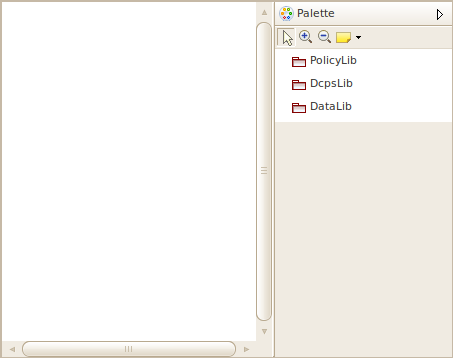
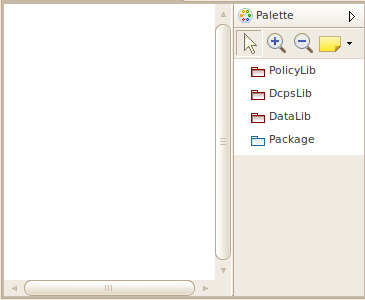
Mon Mar 28 16:54:10 UTC 2011  Byron Harris  <harrisb@ociweb.com>
git-svn-id: svn://svn.dre.vanderbilt.edu/DOC/DDS@4441 1d620576-631a-0410-9fb9-985d35bca4c5

Changed region(s): [[0.0, 0.0, 1.0, 1.0]]

diff --git a/trunk/tools/modeling/plugins/org.opendds.modeling.help/html/modeling/tasks/opendds_models/model_population.html b/trunk/tools/modeling/plugins/org.opendds.modeling.help/html/modeling/tasks/opendds_models/model_population.html
@@ -16,7 +16,7 @@
 
   <p>After the selection of a new OpenDDS Diagram you will then be
   presented with an editor that consists of a canvas and a palette
-  of "libraries" that can dragged onto the canvas. An example of
+  of "libraries" and a Package that can dragged onto the canvas. An example of
   this editor is shown in the following figure.</p><img alt=
   "Creating new OpenDDS diagram" src=
   "../../images/new_diagram_editor.png">
@@ -33,10 +33,14 @@
   "../diagrams/moving_between_diagrams.html">Moving between
   Diagrams</a> for information on working with multiple diagram
   editors.</p>
-  
+
+  <p>The libraries can optionally be organized by Packages. See
+  <a href="using_packages.html">Using Packages</a> for more information.
+  </p>
+   
    <div class="caution">
     <p>Although the <a href="../diagrams/modeling_perspective.html">OpenDDS Modeling perspective</a>
-    includes a Properties view exposing the underlying model, effort has been
+    includes a Properties view exposing the underlying model in the &quot;Core&quot; tab, effort has been
     made to minimize the need go between the diagram and Properties view. Care
     should be taken when making modifications in the Properties view
     since it may be possible to violate certain modeling assumptions that the

diff --git a/trunk/tools/modeling/plugins/org.opendds.modeling.help/html/modeling/tasks/data_lib/types/struct.html b/trunk/tools/modeling/plugins/org.opendds.modeling.help/html/modeling/tasks/data_lib/types/struct.html
@@ -17,14 +17,20 @@
   <p>A Struct is created by selecting a Struct from the palette and
   adding to the diagram.</p>
 
-  <p>After giving your Struct a name you will then want to give it
-  Fields as discussed above.</p>
+  <p>After giving your Struct a name you will then want to add
+  Fields to it as discussed in <a href="types_with_fields.html">Types with Fields</a>.</p>
 
   <p>After you define the Fields for the Struct you may want to
   re-order them. You can do so by dragging a field and dropping it
   into the new position.</p>
 
   <h2>Keys</h2>
+  <p>As described in the OpenDDS Developer's Guide available at the <a href=
+  "http://download.ociweb.com/OpenDDS/">OpenDDS download
+  page</a>, keys are fields used to identify different instances within a
+  topic. These key fields are identified by elements in the Struct's Keys
+  compartment whose names are that of the fields that act as keys.</p>
+  
   <p>Keys for the Struct are created similar to how Fields are
   created. Select the Key tool from the palette and add it to the
   Struct. Then in the Struct figure type the name of the Field that

diff --git a/trunk/tools/modeling/plugins/org.opendds.modeling.help/html/modeling/tasks/dcps_lib/datareaderwriter_topic_connection.html b/trunk/tools/modeling/plugins/org.opendds.modeling.help/html/modeling/tasks/dcps_lib/datareaderwriter_topic_connection.html
@@ -1,0 +1,29 @@
+<!DOCTYPE html PUBLIC "-//W3C//DTD HTML 4.01 Transitional//EN"
+"http://www.w3.org/TR/html4/loose.dtd">
+
+<html>
+<head>
+  <meta http-equiv="Content-Type" content=
+  "text/html; charset=us-ascii">
+
+  <title>Connecting DataReader/DataWriter to Topics</title>
+  <link rel="stylesheet" type="text/css" href=
+  "../../../styles.css">
+</head>
+
+<body>
+  <h2>Connecting DataReader/DataWriter to Topics</h2>
+
+  <p>Currently connector tools on the palette must be used to
+  connect a DataReader or DataWriter to a Topic. The steps to make
+  a connection are
+  <ol>
+    <li>Select the appropriate connector from the palette.</li>
+    <li>Click on the DataReader/DataWriter.</li>
+    <li>For a DataWriter click on its associated Topic, MultiTopic, or ContentFilteredTopic figure.
+    For a DataReader click on its associated Topic figure.</li>
+  </ol>
+  </p><img alt="DataWriter example" src=
+  "../../images/datareaderwriter_topic_connection_palette.png" align="right">
+</body>
+</html>

diff --git a/trunk/tools/modeling/plugins/org.opendds.modeling.help/html/modeling/tasks/opendds_models/model_creation.html b/trunk/tools/modeling/plugins/org.opendds.modeling.help/html/modeling/tasks/opendds_models/model_creation.html
@@ -14,7 +14,19 @@
 <body>
   <h2>Creating a Model</h2>
 
-  <p>To create an OpenDDS model, from the <a href=
+  <p>To create an OpenDDS model, an Eclipse project must be
+  identified to contain the model. An existing project of any type can be used, or a project can be created from menu <a href=
+  'javascript:executeCommand("org.eclipse.ui.newWizard")'><b>Eclipse
+  File -&gt; New</b></a> -&gt; Project... . A general project type can used
+  as shown below.
+  </p>
+  <img alt="Creating new Eclipse project" src=
+  "../../images/new_project_selection.png">
+  
+  <p>Once a project has been selected a new OpenDDS model can be
+  
+  
+  created from the <a href=
   'javascript:executeCommand("org.eclipse.ui.newWizard")'><b>Eclipse
   File -&gt; New</b></a> -&gt; Other... (Ctrl+N) menu item select
   OpenDDS Diagram under the OpenDDS Models category as shown in the

diff --git a/trunk/tools/modeling/plugins/org.opendds.modeling.help/html/modeling/concepts/modeling.html b/trunk/tools/modeling/plugins/org.opendds.modeling.help/html/modeling/concepts/modeling.html
@@ -8,7 +8,12 @@
 
 <h1>OpenDDS Modeling SDK</h1>
 
-<img alt="OpenDDS modeling editors example" src="../images/opendds_modeling_editors_examples.png" width=500>
+<div align="center">
+  <a href="../images/opendds_modeling_editors_examples.png">
+  <img alt="OpenDDS modeling editors example" src="../images/opendds_modeling_editors_examples.png" width=500>
+  <p>[Click to enlarge]</p>
+  </a>
+</div>
 
 <p>Graphical modeling Eclipse plug-ins are provided for constructing the OpenDDS models that will be
 transformed into C++ code.</p>

diff --git a/trunk/tools/modeling/plugins/org.opendds.modeling.help/html/modeling/tasks/data_lib/types/types_with_fields.html b/trunk/tools/modeling/plugins/org.opendds.modeling.help/html/modeling/tasks/data_lib/types/types_with_fields.html
@@ -18,6 +18,13 @@
   Long". (Basic types do not need to be created first.) The type
   can be from any of the active DataLibs in addition to the types
   in the currently opened diagram.</p>
+
+  <div class="caution">
+  <p>If a Field has not been defined properly (for example, a reference
+  is made to a type that does not exist) you will see
+  &lt;...&gt; in its place. Either edit the field using the
+  "name: type" form or delete the field from the Struct.</p>
+  </div>
   
 </body>
 </html>

diff --git a/trunk/tools/modeling/plugins/org.opendds.modeling.help/html/modeling/tasks/dcps_lib/topics_usage.html b/trunk/tools/modeling/plugins/org.opendds.modeling.help/html/modeling/tasks/dcps_lib/topics_usage.html
@@ -22,6 +22,10 @@
   up the context menu. Pick "Select DataType" to bring up a dialog
   showing all the allowable Structs that you can pick from.</p>
 
+  <p>See
+  <a href="datareaderwriter_topic_connection.html">Connecting DataReader/DataWriter to Topics</a>
+  for the steps on connecting a DataReader/DataWriter to your Topic/ContentFilteredTopic/MultiTopic.</p>
+
   <h3>ContentFilteredTopic</h3>
 
   <p>A DataReader can optionally connect to a ContentFilteredTopic.

diff --git a/trunk/tools/modeling/plugins/org.opendds.modeling.help/html/modeling/tasks/dcps_lib/datawriter_creation.html b/trunk/tools/modeling/plugins/org.opendds.modeling.help/html/modeling/tasks/dcps_lib/datawriter_creation.html
@@ -19,5 +19,9 @@
   Publisher. QoS policies can be added to the DataWriter as
   needed.</p><img alt="DataWriter example" src=
   "../../images/dcps_datawriter_example.png">
+  
+  <p>See
+  <a href="datareaderwriter_topic_connection.html">Connecting DataReader/DataWriter to Topics</a>
+  for the steps on connecting your DataWriter to a Topic.</p>
 </body>
 </html>
